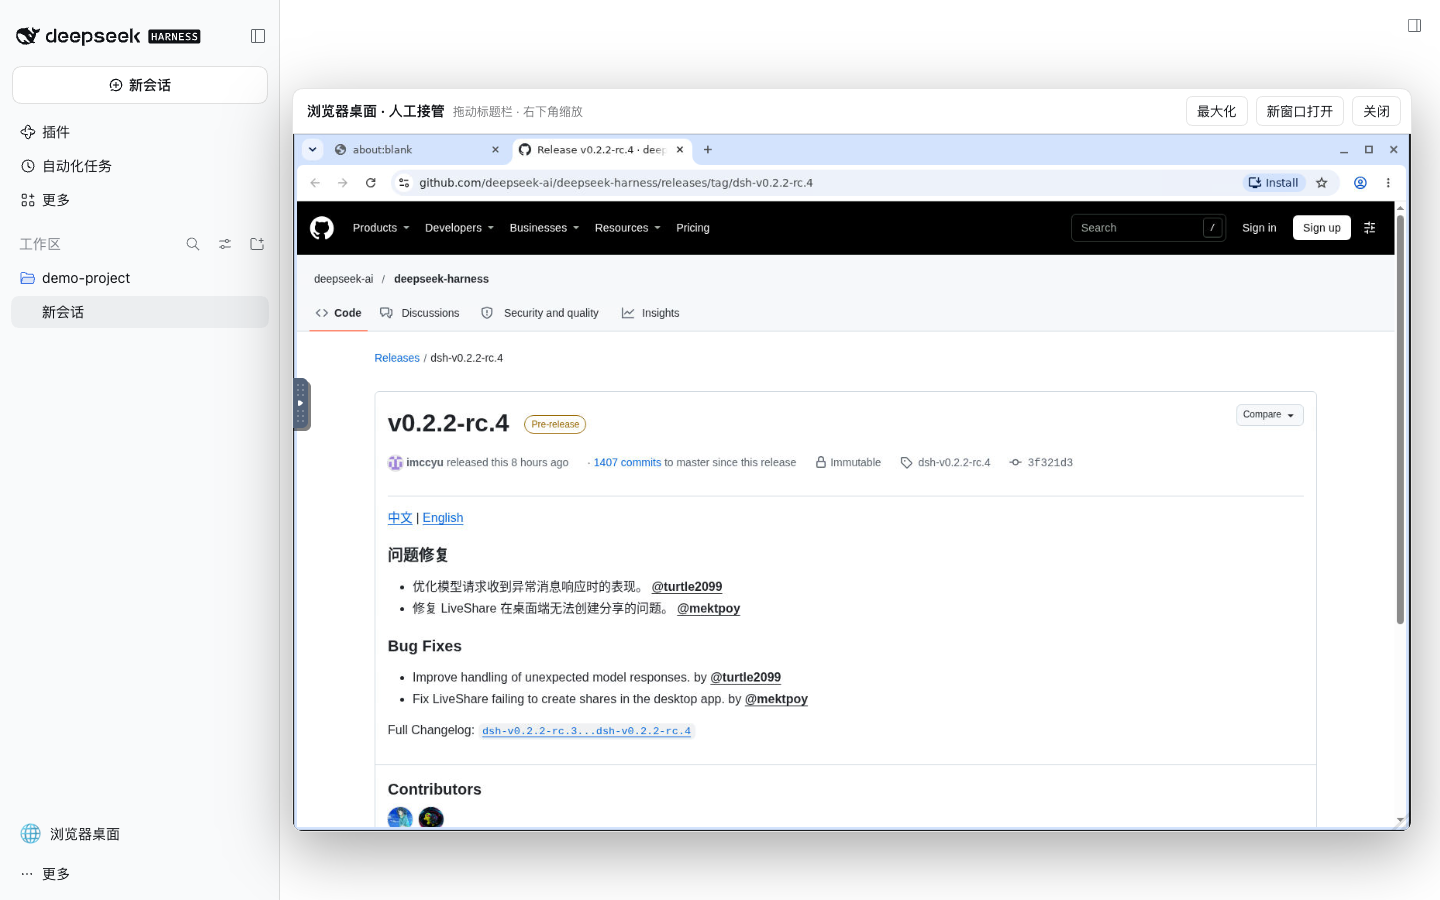
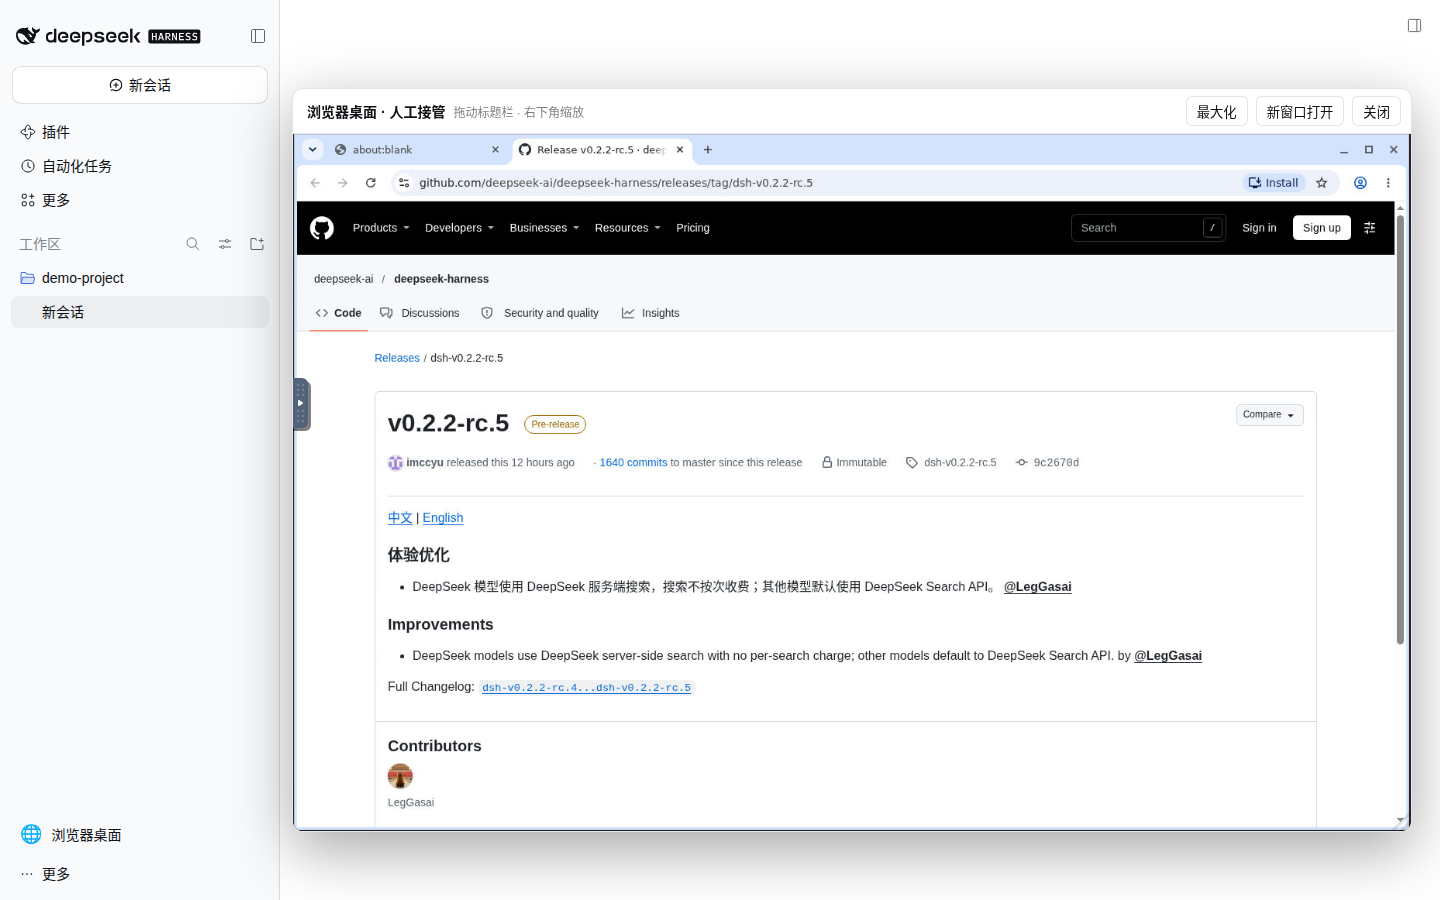
docs: refresh RC5 Light screenshots and explain search routing

diff --git a/README.en.md b/README.en.md
@@ -21,11 +21,7 @@ This project packages the official DSH npm distribution into a reproducible Dock
 `0.2.2-rc.5` maps directly to the official [`dsh-v0.2.2-rc.5`](https://github.com/deepseek-ai/deepseek-harness/releases/tag/dsh-v0.2.2-rc.5) Release and [`@deepseek-ai/dsh@0.2.2-rc.5`](https://www.npmjs.com/package/@deepseek-ai/dsh/v/0.2.2-rc.5) in the npm Registry; it is not a project-defined version. This project packages the installable npm distribution instead of building source, and intentionally does not publish a drifting Docker `latest` tag.
 
 
-`0.2.2-rc.2` improves named and nested SubAgents, AgentTeam and worktree review. Session archival now cleans eligible Git worktrees by default; review the upstream migration notes for custom plugins and SDK integrations.
-
-`0.2.2-rc.3` adds an experimental DeepSeek conversation import plugin and fixes Windows desktop in-app updates.
-
-`0.2.2-rc.5` selects the search service by model. DeepSeek models use server-side search with no per-search charge. Other models default to the DeepSeek Search API.
+In `0.2.2-rc.5`, Automatic search uses server-side search on the `deepseek-official` and `deepseek-account` routes. Model tokens are billed without a separate per-search fee. Other routes default to the DeepSeek Search API. Server-side search has its own Base URL. For a custom gateway, set its Messages-compatible endpoint in Web search and fetch settings, or select DeepSeek Search API to keep the previous behavior. [Upstream migration guide](https://github.com/deepseek-ai/deepseek-harness/blob/dsh-v0.2.2-rc.5/docs/upgrade-guide/v0.2.2-rc.4/web-search-deepseek-model-default/guide.md)
 
 > **0.2.2 migration:** Node.js `24.9` is the minimum. Review custom plugins against the Session-projection, tool-execution and PTC APIs. Web Fetch allows private addresses, so deployments must restrict egress themselves. Set explicit capacities for custom models. Back up the data volume before upgrading and restore that backup when downgrading. See the [upstream notes](https://github.com/deepseek-ai/deepseek-harness/releases/tag/dsh-v0.2.2-rc.2).
 
@@ -49,7 +45,7 @@ This project packages the official DSH npm distribution into a reproducible Dock
 
 ![DeepSeek Harness Web UI running from this image](assets/deepseek-harness-web.png)
 
-_Light-theme capture (2026-11-18, DSH `0.2.2-rc.4`) from an isolated, empty demo workspace. No personal sessions or credentials are shown. No model was configured and no model call was made._
+_Light-theme capture (2026-11-19, DSH `0.2.2-rc.5`) from an isolated, empty demo workspace. No personal sessions or credentials are shown. No model was configured and no model call was made._
 
 ## Project status
 
@@ -269,7 +265,7 @@ The public plugin uses Harness's `sidebar.footer.action` and `shell.overlay` ext
 
 ![Movable and resizable Chromium browser embedded in the Harness Web UI](assets/browser-desktop-webui.png)
 
-_Light-theme capture (2026-11-18, DSH `0.2.2-rc.4`, browser-desktop plugin `0.1.6`): the browser panel is inside Harness and displays the official 0.2.2-rc.4 GitHub Release page._
+_Light-theme capture (2026-11-19, DSH `0.2.2-rc.5`, browser-desktop plugin `0.1.6`): the browser panel is inside Harness and displays the official 0.2.2-rc.5 GitHub Release page._
 
 This follows the visible-desktop idea from [`docker-antigravity`](https://github.com/runzhliu/docker-antigravity) without adopting its amd64 base or Selkies. Debian's native packages keep the image usable on both Apple Silicon and x86 Linux. The official [Browser Use architecture](https://github.com/deepseek-ai/deepseek-harness/blob/master/docs/subsystems/browser-use.md) and [Sidebar Browser limitations](https://github.com/deepseek-ai/deepseek-harness/blob/master/packages/client/ui-sidebar-browser/README.md) describe the boundary between these layers. Port 6080 is loopback-only like 3080; the native noVNC endpoint has no authentication and must never be exposed directly. The optional LAN overlay carries the versioned `/novnc-*` route through the same HTTPS and authentication boundary as the Web UI.
 
@@ -355,7 +351,7 @@ The variant has the unambiguous `runzhliu/deepseek-harness:0.2.2-rc.5-r1-market.
 
 ![Light-theme community plugin market in the optional market image](assets/plugin-market-webui.png)
 
-_Captured from the optional market image (2026-11-18, DSH `0.2.2-rc.4`, `dshmarket@1.66.9`); this page is absent from the default image. Catalog entries and compatibility indicators change over time. This screenshot shows browsing only; none of the displayed plugins were installed._
+_Captured from the optional market image (2026-11-19, DSH `0.2.2-rc.5`, `dshmarket@1.66.9`); this page is absent from the default image. Catalog entries and compatibility indicators change over time. This screenshot shows browsing only; none of the displayed plugins were installed._
 
 The market package itself is pinned and copied at build time. Plugins installed through it and the pnpm store persist in the `dsh-home` volume. Installation needs container egress to npm/GitHub, and third-party build scripts should remain blocked until separately reviewed and approved. One-click market restart is disabled; apply lifecycle changes with `docker compose restart` or a Kubernetes rollout.
 

diff --git a/assets/README.md b/assets/README.md
@@ -1,14 +1,14 @@
 # README screenshots
 
-The four screenshots show DSH `0.2.2-rc.4` in Light mode. Each capture used a disposable container with an empty workspace and no configured model.
+The four screenshots show DSH `0.2.2-rc.5` in Light mode. Each capture used a disposable container with an empty workspace and no configured model.
 
 | Screenshot | Image variant | What it shows |
 | --- | --- | --- |
 | `deepseek-harness-web.png` | Market | New session in the demo workspace |
-| `browser-desktop-webui.png` | Market | Container Chromium displaying the upstream RC4 release inside the noVNC panel |
+| `browser-desktop-webui.png` | Market | Container Chromium displaying the upstream RC5 release inside the noVNC panel |
 | `plugin-market-webui.png` | Market | Plugin discovery and compatibility information |
 | `deepseek-harness-superagent.png` | Super Agent | The initial overview with processing paused |
 
-The Web, browser and market screenshots were captured at 1440 × 900 and Super Agent at 1440 × 1000, using Playwright and Chrome on the local Docker host. The [capture record](capture-provenance.json) identifies the images, capture times and runtime checks.
+The Web, browser and market screenshots were captured at 1440 × 900 ([GitHub Actions run 44433956714](https://github.com/runzhliu/deepseek-harness-docker/actions/runs/44433956714)). The Super Agent screenshot was captured at 1440 × 1000 ([GitHub Actions run 44434641625](https://github.com/runzhliu/deepseek-harness-docker/actions/runs/44434641625)). The [capture record](capture-provenance.json) identifies the images, capture times and runtime checks.
 
 To refresh these assets, dispatch the [README screenshot workflow](../.github/workflows/capture-readme.yml) and the [Super Agent screenshot workflow](../.github/workflows/capture-superagent.yml) for the same published version and revision. Review the PNGs and combine both capture records before updating the README captions.
